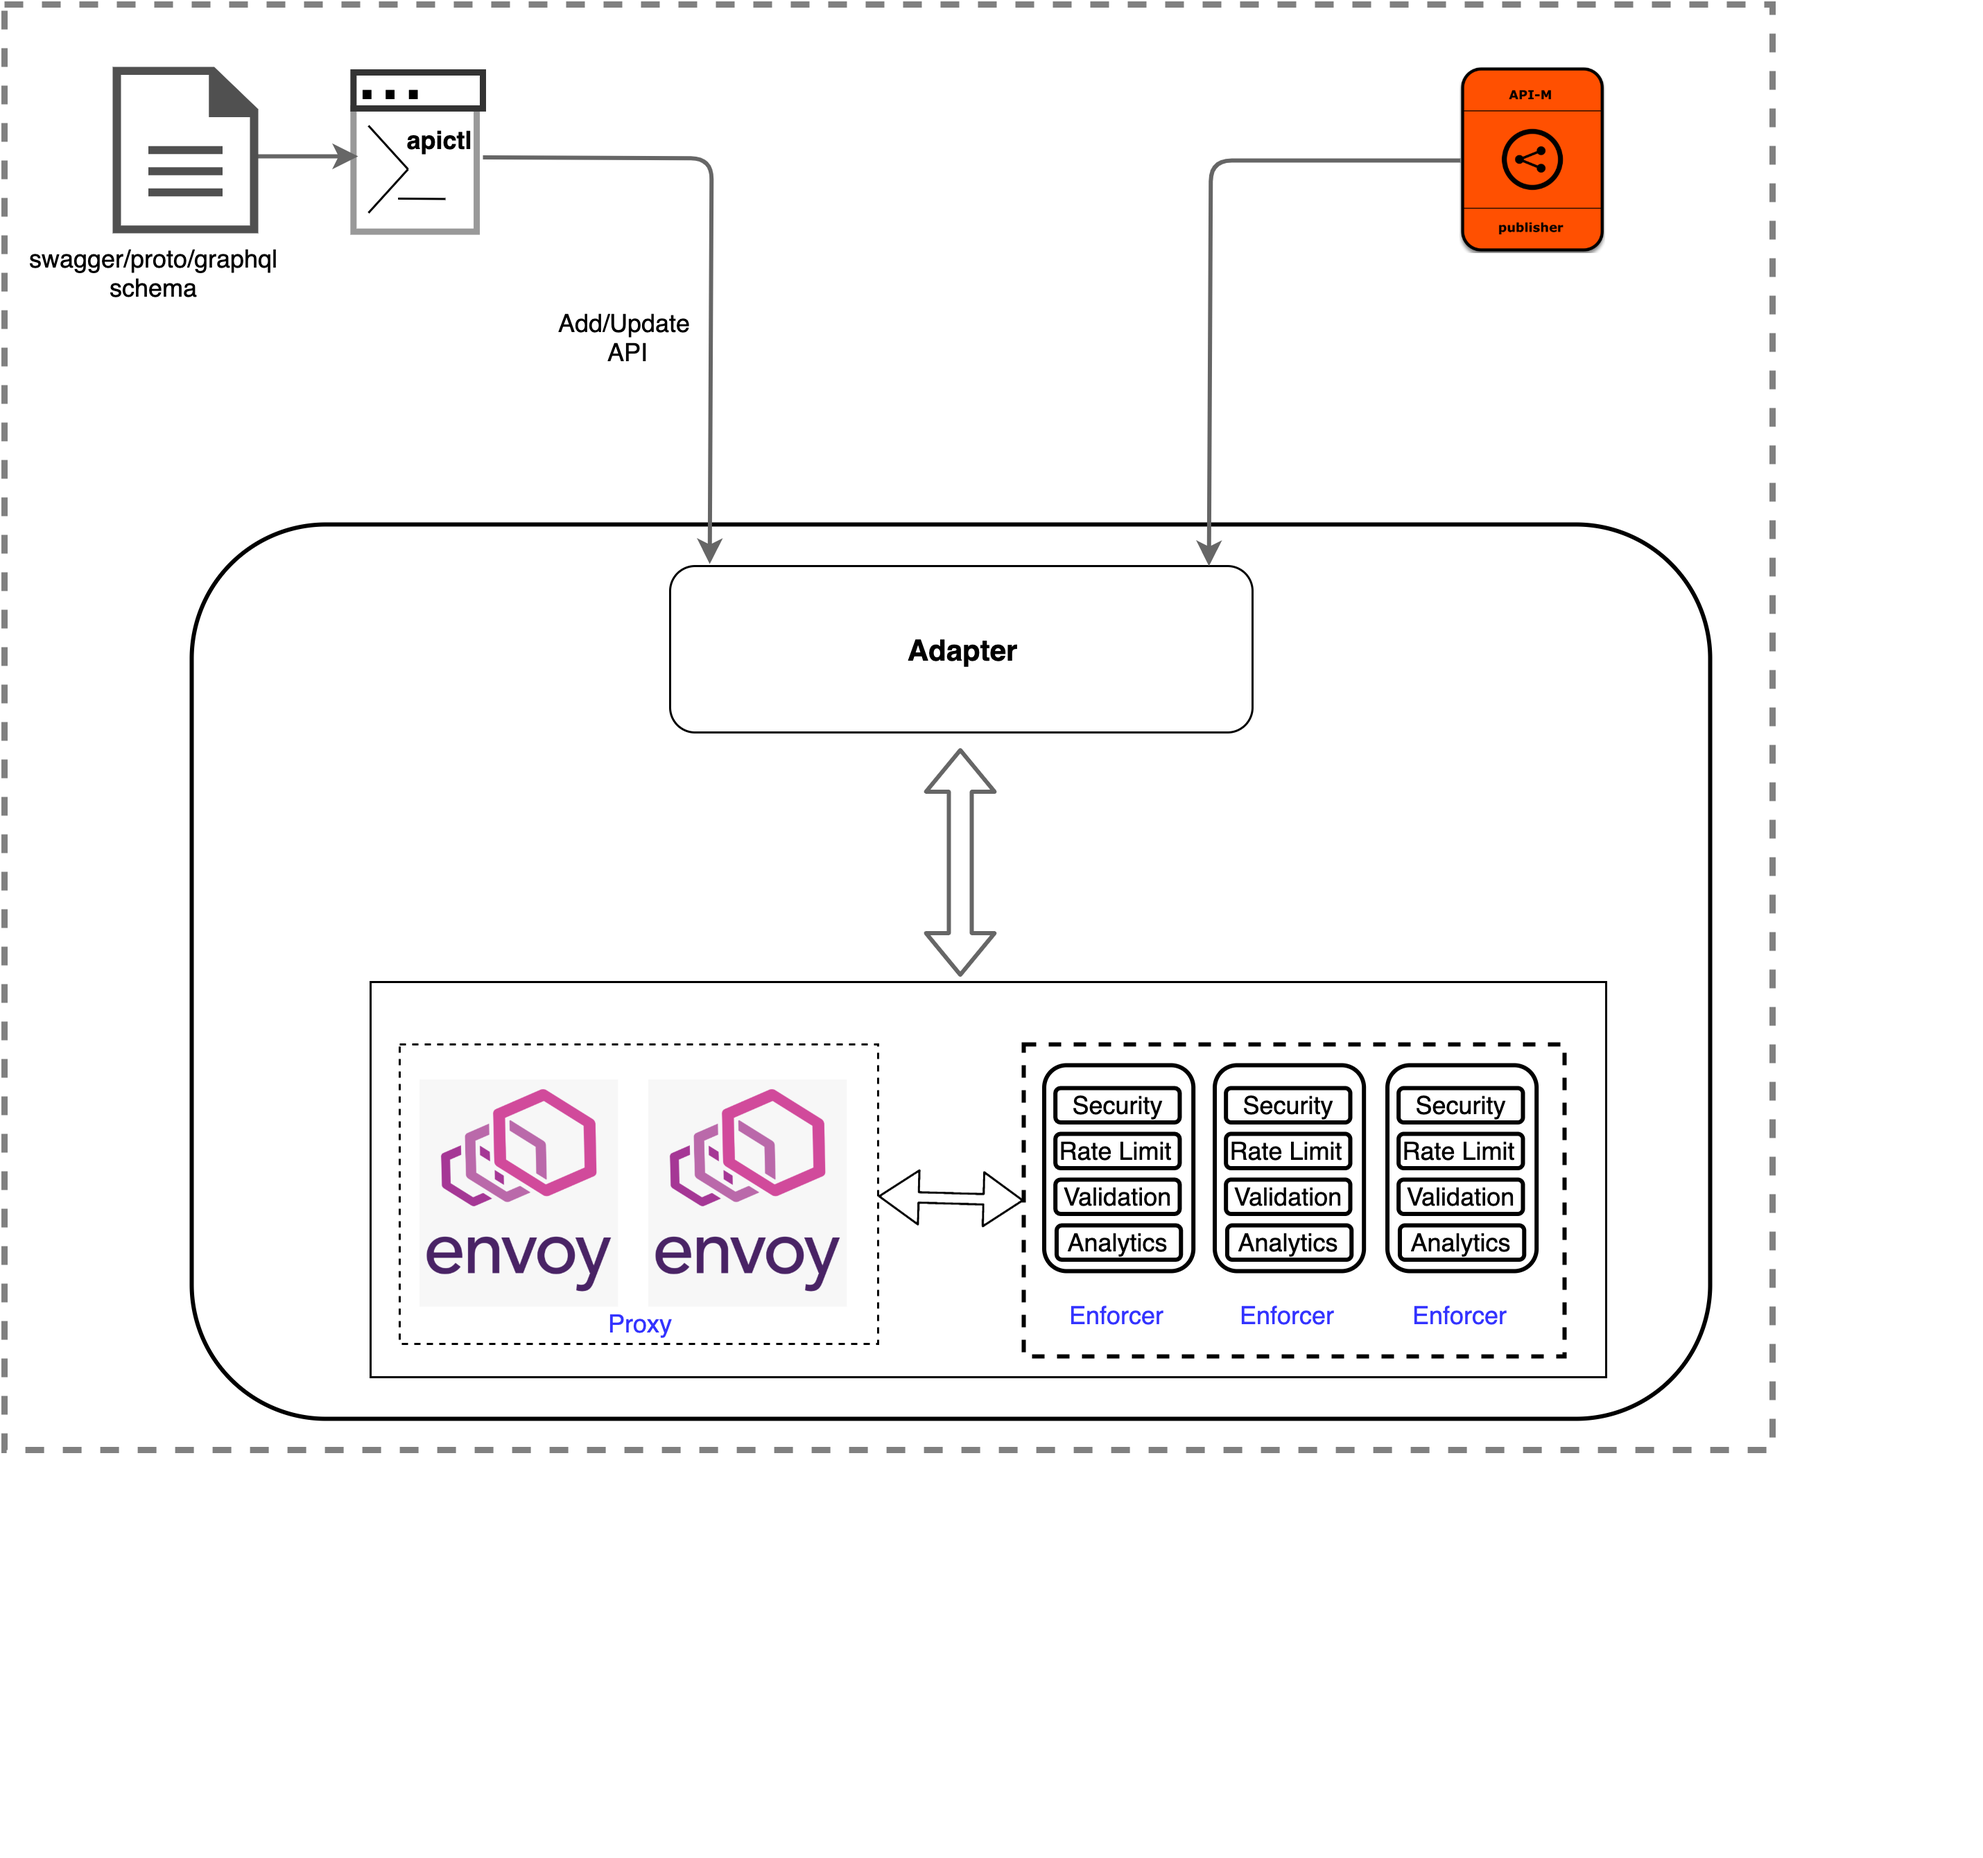
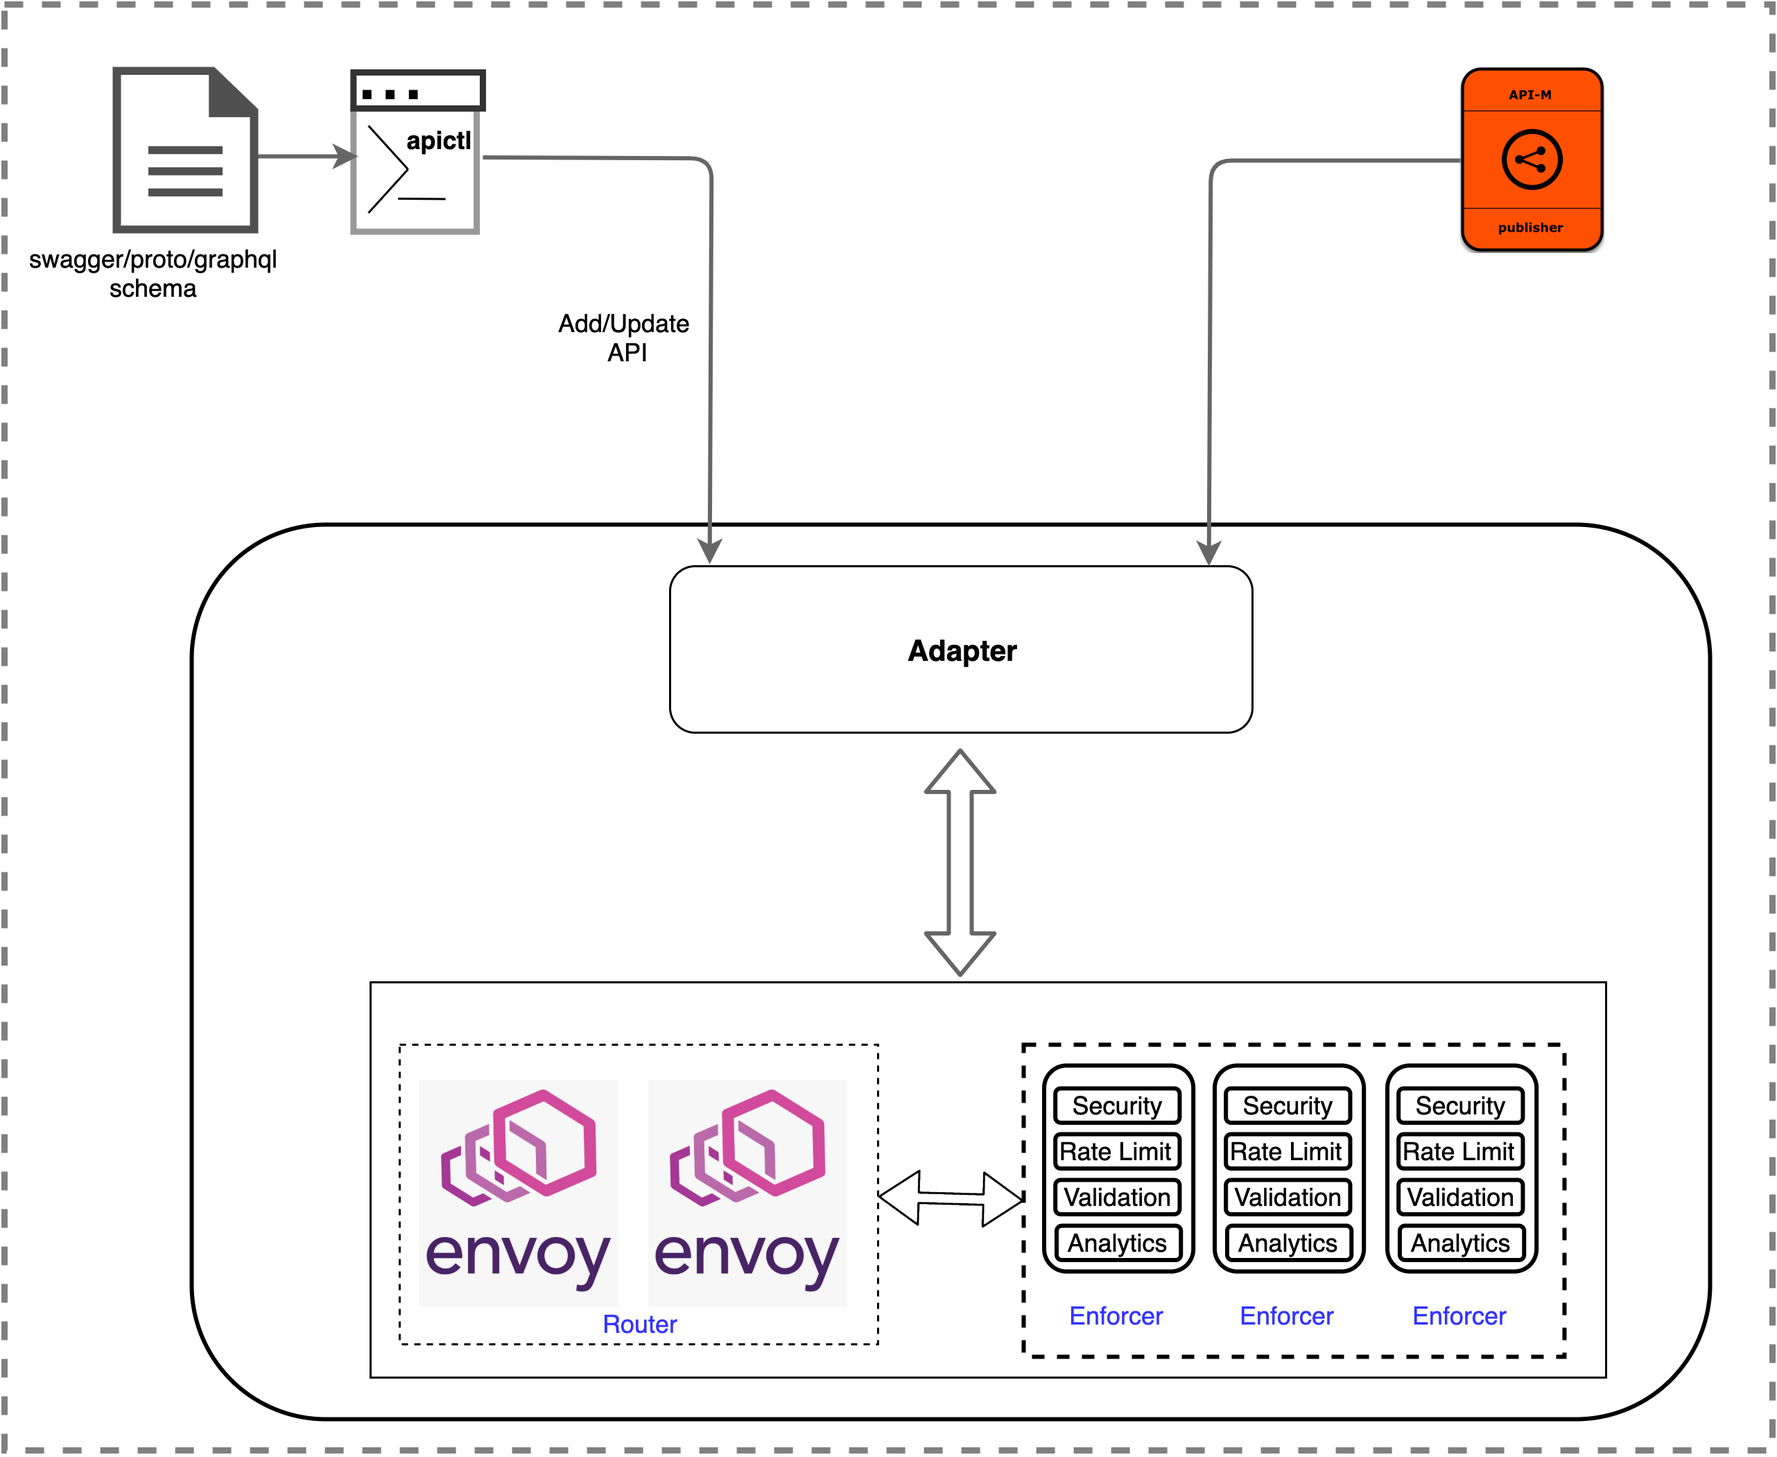
dist: Rename proxy as router

diff --git a/README.md b/README.md
@@ -86,13 +86,13 @@ curl -X GET "https://localhost:9095/v2/pet/1" -H "accept: application/json" -H "
 - **APICTL** : The APICTL is used to initiate Microgateway projects as well as to deploy APIs in to Microgateway. This is a developer tool used
  to deploy APIs into Microgateway
 
-- **Proxy** : The client facing component of the Microgateway. The downstream request will reach the proxy component and it will route the request 
+- **Router** : The client facing component of the Microgateway. The downstream request will reach the proxy component and it will route the request
 to the desired destination.
 
-- **Enforcer** : This component will intercept the request going through the proxy and applies security, rate limiting, publish analytics data and etc.
-Proxy will forward the request to this component in order to validate and to add additional QoS.
+- **Enforcer** : This component will intercept the request going through the Router and applies security, rate limiting, publish analytics data and etc.
+Router will forward the request to this component in order to validate and to add additional QoS.
 
-- **Adapter** : The component configures the proxy and the enforcer components dynamically during the runtime upon receiving an event for API
+- **Adapter** : The component configures the Router and the enforcer components dynamically during the runtime upon receiving an event for API
 creation or update.
 #### Architecture
 
